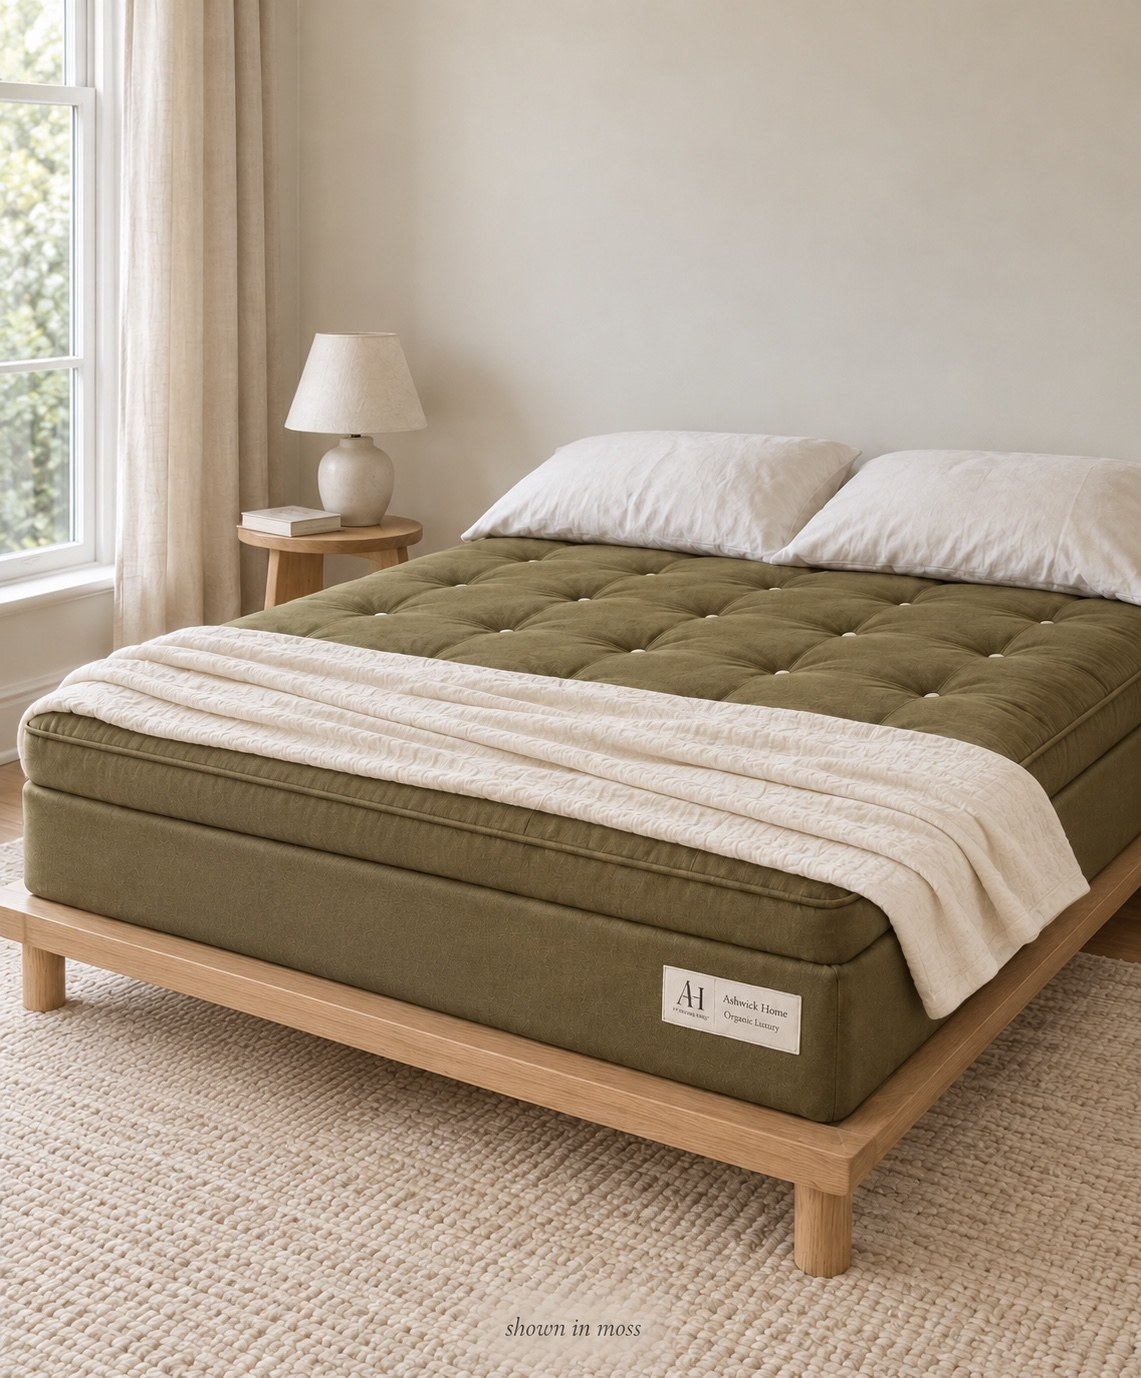
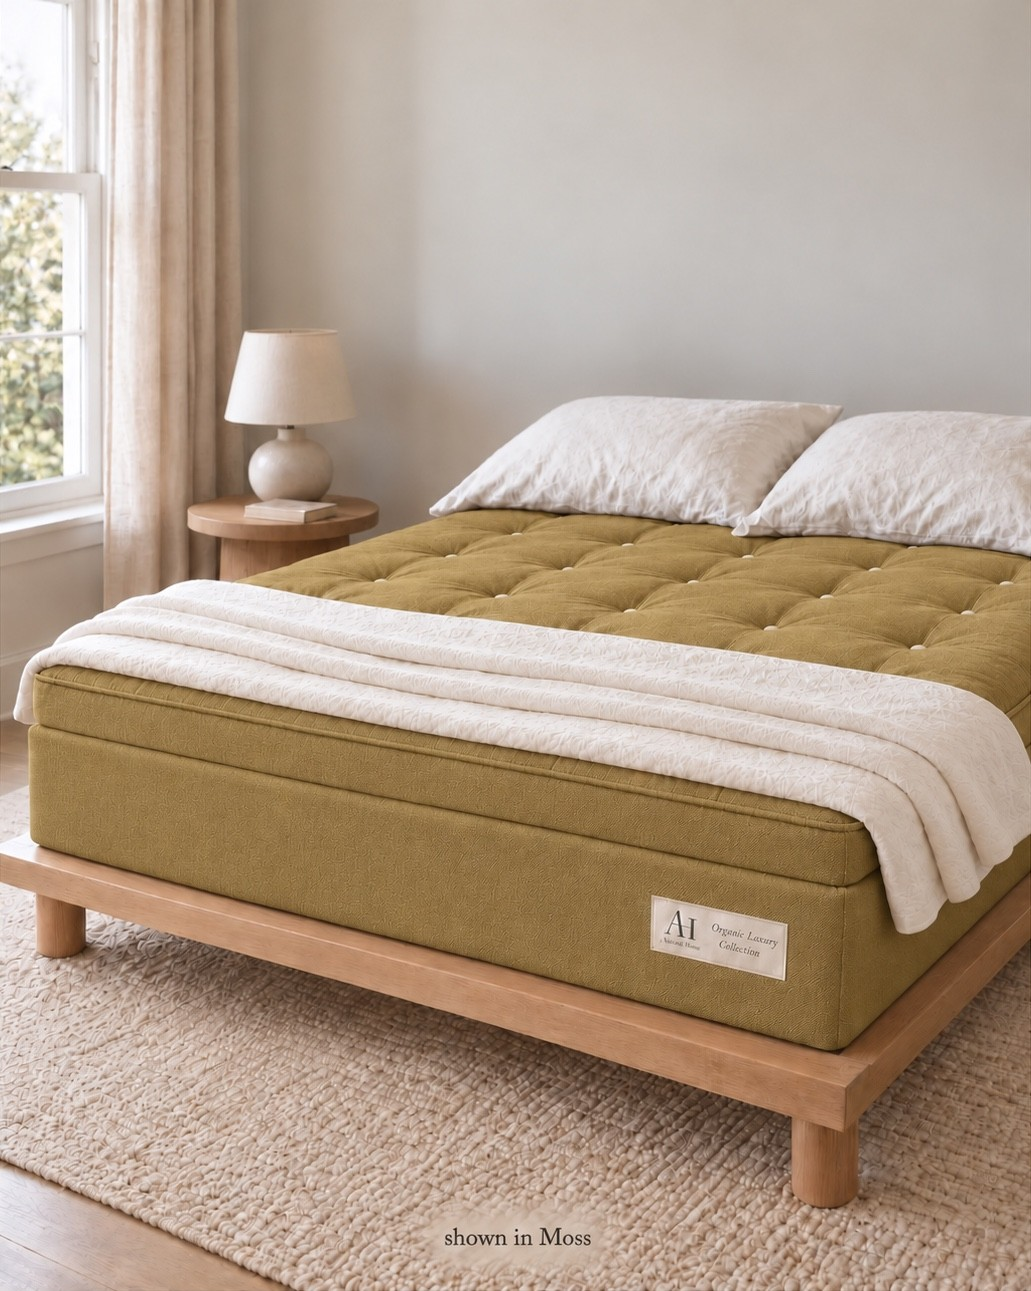
Ashbury: Hazel is renamed Flax, with its new room photo; new Moss room photo
- Flax uses the lighter studio and room shots, swatch and cutaway so its gallery is one shade; brown Hazel photos kept, unused
- ?color=hazel links still open Flax; checkout still matches Shopify variants named Hazel or Safari
- Chatbot and image descriptions updated

Claude-Session: https://claude.ai/code/session_01BdupDbY4vAUPMLYs1EoME5

diff --git a/lib/mattress.ts b/lib/mattress.ts
@@ -52,8 +52,8 @@ export const MATTRESS = {
     { id: "natural", label: "Fleece", swatch: "mattress-swatch-natural", photos: ["mattress-room-fleece", "mattress-studio-natural"], cutaway: "mattress-cutaway-fleece", alt: "The Ashbury in Fleece" },
     { id: "dove", label: "Flint", swatch: "mattress-swatch-dove", photos: ["mattress-room-flint", "mattress-studio-dove"], cutaway: "mattress-cutaway-flint", alt: "The Ashbury in Flint" },
     { id: "khaki", label: "Moss", swatch: "mattress-swatch-khaki", photos: ["mattress-room-moss", "mattress-studio-khaki"], cutaway: "mattress-cutaway-moss", alt: "The Ashbury in Moss" },
-    // The new Hazel render replaces the old Safari studio shot in the gallery (the old file is kept, unused).
-    { id: "safari", label: "Hazel", swatch: "mattress-swatch-hazel", photos: ["mattress-room-hazel", "mattress-studio-hazel", "mattress-safari-room"], cutaway: "mattress-cutaway-hazel", alt: "The Ashbury in Hazel" },
+    // Was "Hazel" (and before that "Safari"); the brown Hazel photos are kept, unused.
+    { id: "safari", label: "Flax", swatch: "mattress-swatch-safari", photos: ["mattress-room-flax", "mattress-studio-safari", "mattress-safari-room"], cutaway: "mattress-cutaway-flax", alt: "The Ashbury in Flax" },
     { id: "mocha", label: "Sorrel", swatch: "mattress-swatch-mocha", photos: ["mattress-room-sorrel", "mattress-studio-mocha", "mattress-mocha-room"], cutaway: "mattress-cutaway", alt: "The Ashbury in Sorrel" },
   ] satisfies MattressColor[],
   /** Color selected when the page opens (its first photo leads the gallery and the social preview). */
@@ -80,6 +80,10 @@ export const colorById = (id: string) => MATTRESS.colors.find((c) => c.id === id
 
 /** Link to the mattress page with a color selected, by its current name (?color=sorrel). */
 export const mattressColorHref = (id: string) => `${MATTRESS_PATH}?color=${colorById(id).label.toLowerCase()}`;
-/** The color id for a ?color= value: its current name, or the original id that older links and the feed used. */
-export const colorFromParam = (v: string | null) =>
-  v ? MATTRESS.colors.find((c) => c.label.toLowerCase() === v.toLowerCase() || c.id === v)?.id : undefined;
+/** Earlier names of a color, so older links still find it. */
+const FORMER_NAMES: Record<string, string[]> = { safari: ["hazel"] };
+/** The color id for a ?color= value: its current name, a former name, or the original id that older links and the feed used. */
+export const colorFromParam = (v: string | null) => {
+  const q = v?.toLowerCase();
+  return q ? MATTRESS.colors.find((c) => c.label.toLowerCase() === q || c.id === q || FORMER_NAMES[c.id]?.includes(q))?.id : undefined;
+};

diff --git a/lib/photos.ts b/lib/photos.ts
@@ -61,6 +61,7 @@ import mattressRoomNatural from "@/assets/photos/mattress-room-natural.jpg";
 import mattressRoomKhaki from "@/assets/photos/mattress-room-khaki.jpg";
 import mattressRoomMoss from "@/assets/photos/mattress-room-moss.jpg";
 import mattressRoomHazel from "@/assets/photos/mattress-room-hazel.jpg";
+import mattressRoomFlax from "@/assets/photos/mattress-room-flax.jpg";
 import mattressRoomSorrel from "@/assets/photos/mattress-room-sorrel.jpg";
 import mattressRoomFleece from "@/assets/photos/mattress-room-fleece.jpg";
 import mattressRoomFlint from "@/assets/photos/mattress-room-flint.jpg";
@@ -96,7 +97,7 @@ import mattressSafariRoom from "@/assets/photos/mattress-safari-room.jpg";
 import mattressCutaway from "@/assets/photos/mattress-cutaway.jpg";
 import mattressCutawayFleece from "@/assets/photos/mattress-cutaway-fleece.jpg";
 import mattressCutawayFlint from "@/assets/photos/mattress-cutaway-flint.jpg";
-import mattressCutawayHazel from "@/assets/photos/mattress-cutaway-hazel.jpg";
+import mattressCutawayFlax from "@/assets/photos/mattress-cutaway-flax.jpg";
 import mattressCutawayMoss from "@/assets/photos/mattress-cutaway-moss.jpg";
 import mattressSwatchMocha from "@/assets/photos/mattress-swatch-mocha.jpg";
 import mattressSwatchSafari from "@/assets/photos/mattress-swatch-safari.jpg";
@@ -185,6 +186,7 @@ export const PHOTOS = {
   "mattress-room-khaki": mattressRoomKhaki,
   "mattress-room-moss": mattressRoomMoss,
   "mattress-room-hazel": mattressRoomHazel,
+  "mattress-room-flax": mattressRoomFlax,
   "mattress-room-sorrel": mattressRoomSorrel,
   "mattress-room-fleece": mattressRoomFleece,
   "mattress-room-flint": mattressRoomFlint,
@@ -220,7 +222,7 @@ export const PHOTOS = {
   "mattress-cutaway": mattressCutaway,
   "mattress-cutaway-fleece": mattressCutawayFleece,
   "mattress-cutaway-flint": mattressCutawayFlint,
-  "mattress-cutaway-hazel": mattressCutawayHazel,
+  "mattress-cutaway-flax": mattressCutawayFlax,
   "mattress-cutaway-moss": mattressCutawayMoss,
   "mattress-swatch-mocha": mattressSwatchMocha,
   "mattress-swatch-safari": mattressSwatchSafari,

diff --git a/app/api/assistant/route.ts b/app/api/assistant/route.ts
@@ -13,7 +13,7 @@ const MAX_TOOL_ROUNDS = 2;
 
 const M = MATTRESS;
 
-const SYSTEM = `You are the Ashwick Home assistant on ashwickhome.com, an AI that helps visitors with questions about Ashwick Home's furniture, the Ashbury mattress, Bespoke commissions and the Trade program. Be warm, calm and concise (2-4 short sentences unless asked for detail). Plain text only. Use American spelling, but keep brand and product names exactly as written (Living Wool, Fleece, Flint, Moss, Hazel, Sorrel, Irish Linen, Linen Blend).
+const SYSTEM = `You are the Ashwick Home assistant on ashwickhome.com, an AI that helps visitors with questions about Ashwick Home's furniture, the Ashbury mattress, Bespoke commissions and the Trade program. Be warm, calm and concise (2-4 short sentences unless asked for detail). Plain text only. Use American spelling, but keep brand and product names exactly as written (Living Wool, Fleece, Flint, Moss, Flax, Sorrel, Irish Linen, Linen Blend).
 
 RULES
 - Only state facts found in the KNOWLEDGE below. If something isn't covered (e.g. shipping to a specific country, exact delivery dates, custom-size or bespoke pricing, trade pricing thresholds, medical or allergy outcomes, comparisons with named competitors' specs), say you don't want to guess and point them to the team (see A REAL PERSON).

diff --git a/app/pages/inside-the-ashbury/page.tsx b/app/pages/inside-the-ashbury/page.tsx
@@ -56,7 +56,7 @@ export default function InsideTheAshburyPage() {
 
       <section className="sec linen" id="hand-tufting">
         <div className="wrap proc">
-          <div className="proc-v mat-portrait"><Photo src="materials-rosettes" label="Hand-tied wool rosettes on the Ashbury topper in Hazel" sizes={HALF} /></div>
+          <div className="proc-v mat-portrait"><Photo src="materials-rosettes" label="Hand-tied wool rosettes on the Ashbury topper" sizes={HALF} /></div>
           <div className="proc-t">
             <div className="eyebrow">Craft</div>
             <h2 className="proc-h">Held together by hand.</h2>

diff --git a/app/api/checkout/route.ts b/app/api/checkout/route.ts
@@ -45,7 +45,7 @@ const ALIASES: Record<string, string[]> = {
   natural: ["Natural"],
   dove: ["Morning Dove", "Dove"],
   khaki: ["Khaki"],
-  safari: ["Safari"],
+  safari: ["Hazel", "Safari"],
   mocha: ["Mocha Mousse", "Mocha"],
 };
 
